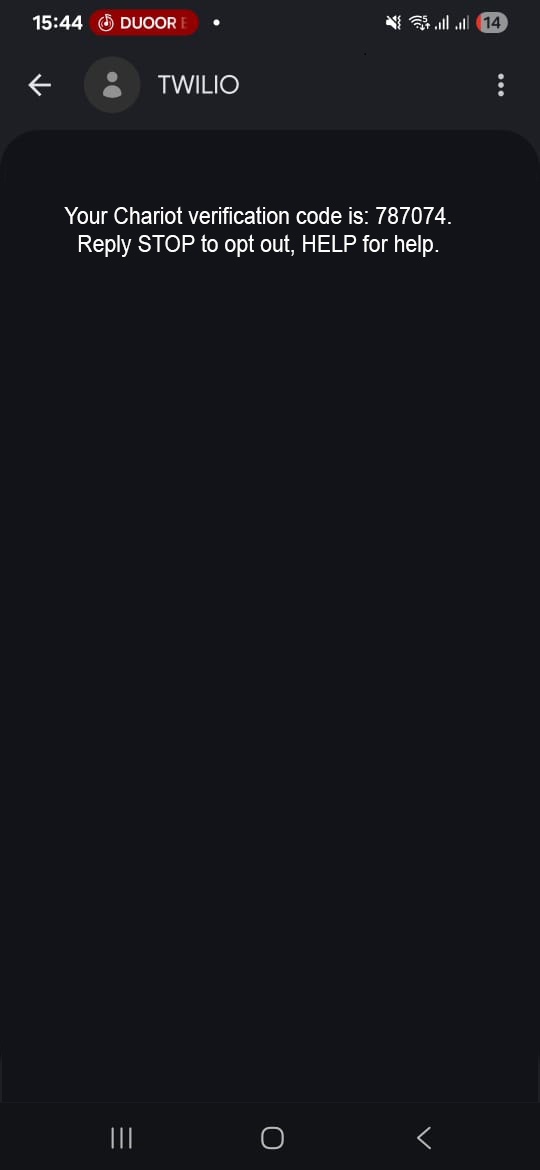
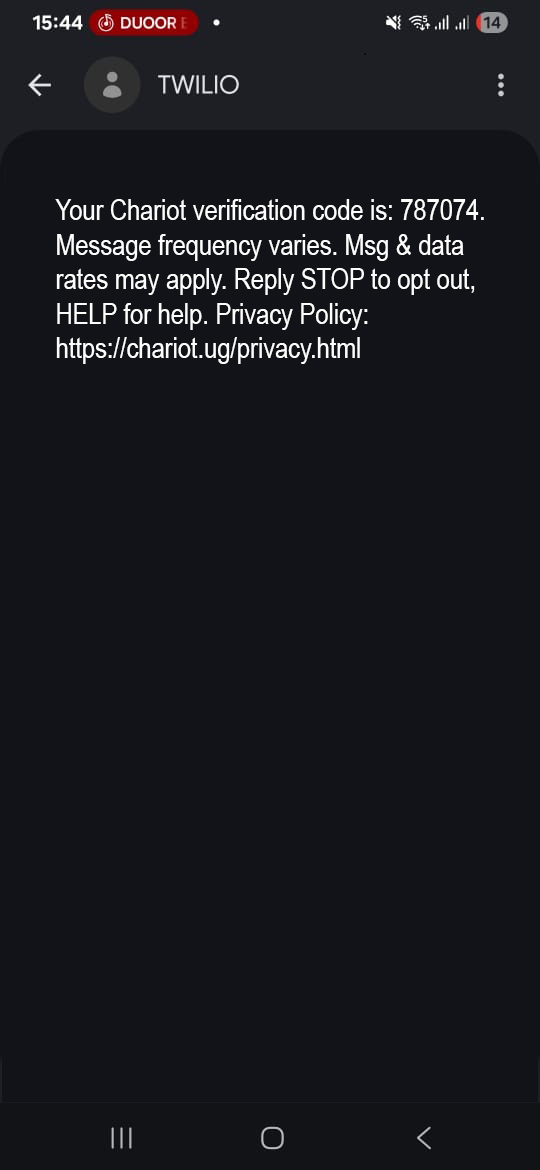
clean

Changed region(s): [[0.0889, 0.1538, 0.8889, 0.3077]]

diff --git a/sms-optin.html b/sms-optin.html
@@ -149,7 +149,8 @@
 
                 <div class="sms-message-box" aria-label="Example SMS message">
                     <div class="sms-message-text">
-                        Your Chariot verification code is: 787074. Reply STOP to opt out, HELP for help.
+                        Message frequency varies. Msg & data rates may apply. Reply STOP to opt out, HELP for help. Privacy Policy:
+                        https://chariot.ug/privacy.html
                     </div>
                 </div>
 
